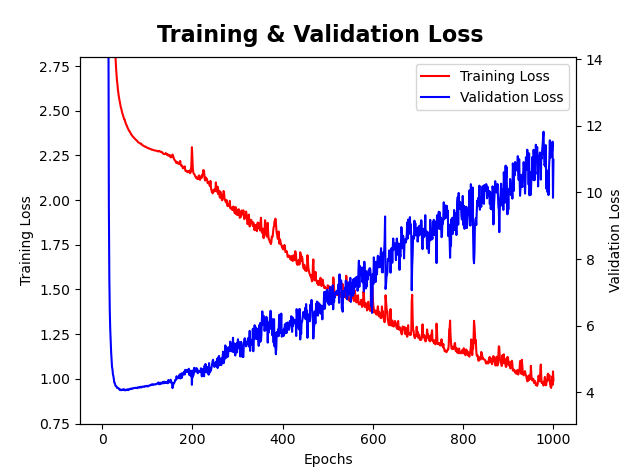
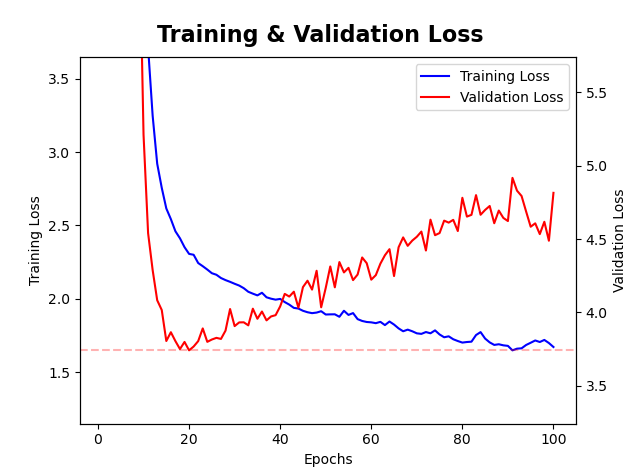
Updated Figures

diff --git a/03_basic_nn_model_build.py b/03_basic_nn_model_build.py
@@ -94,7 +94,7 @@ simple_model.summary()
 
 clf = simple_model.fit(train_images, 
                            train_labels, 
-                           epochs=250, 
+                           epochs=100, 
                            batch_size=batch_size,
                            validation_data=(test_images, test_labels))
 
